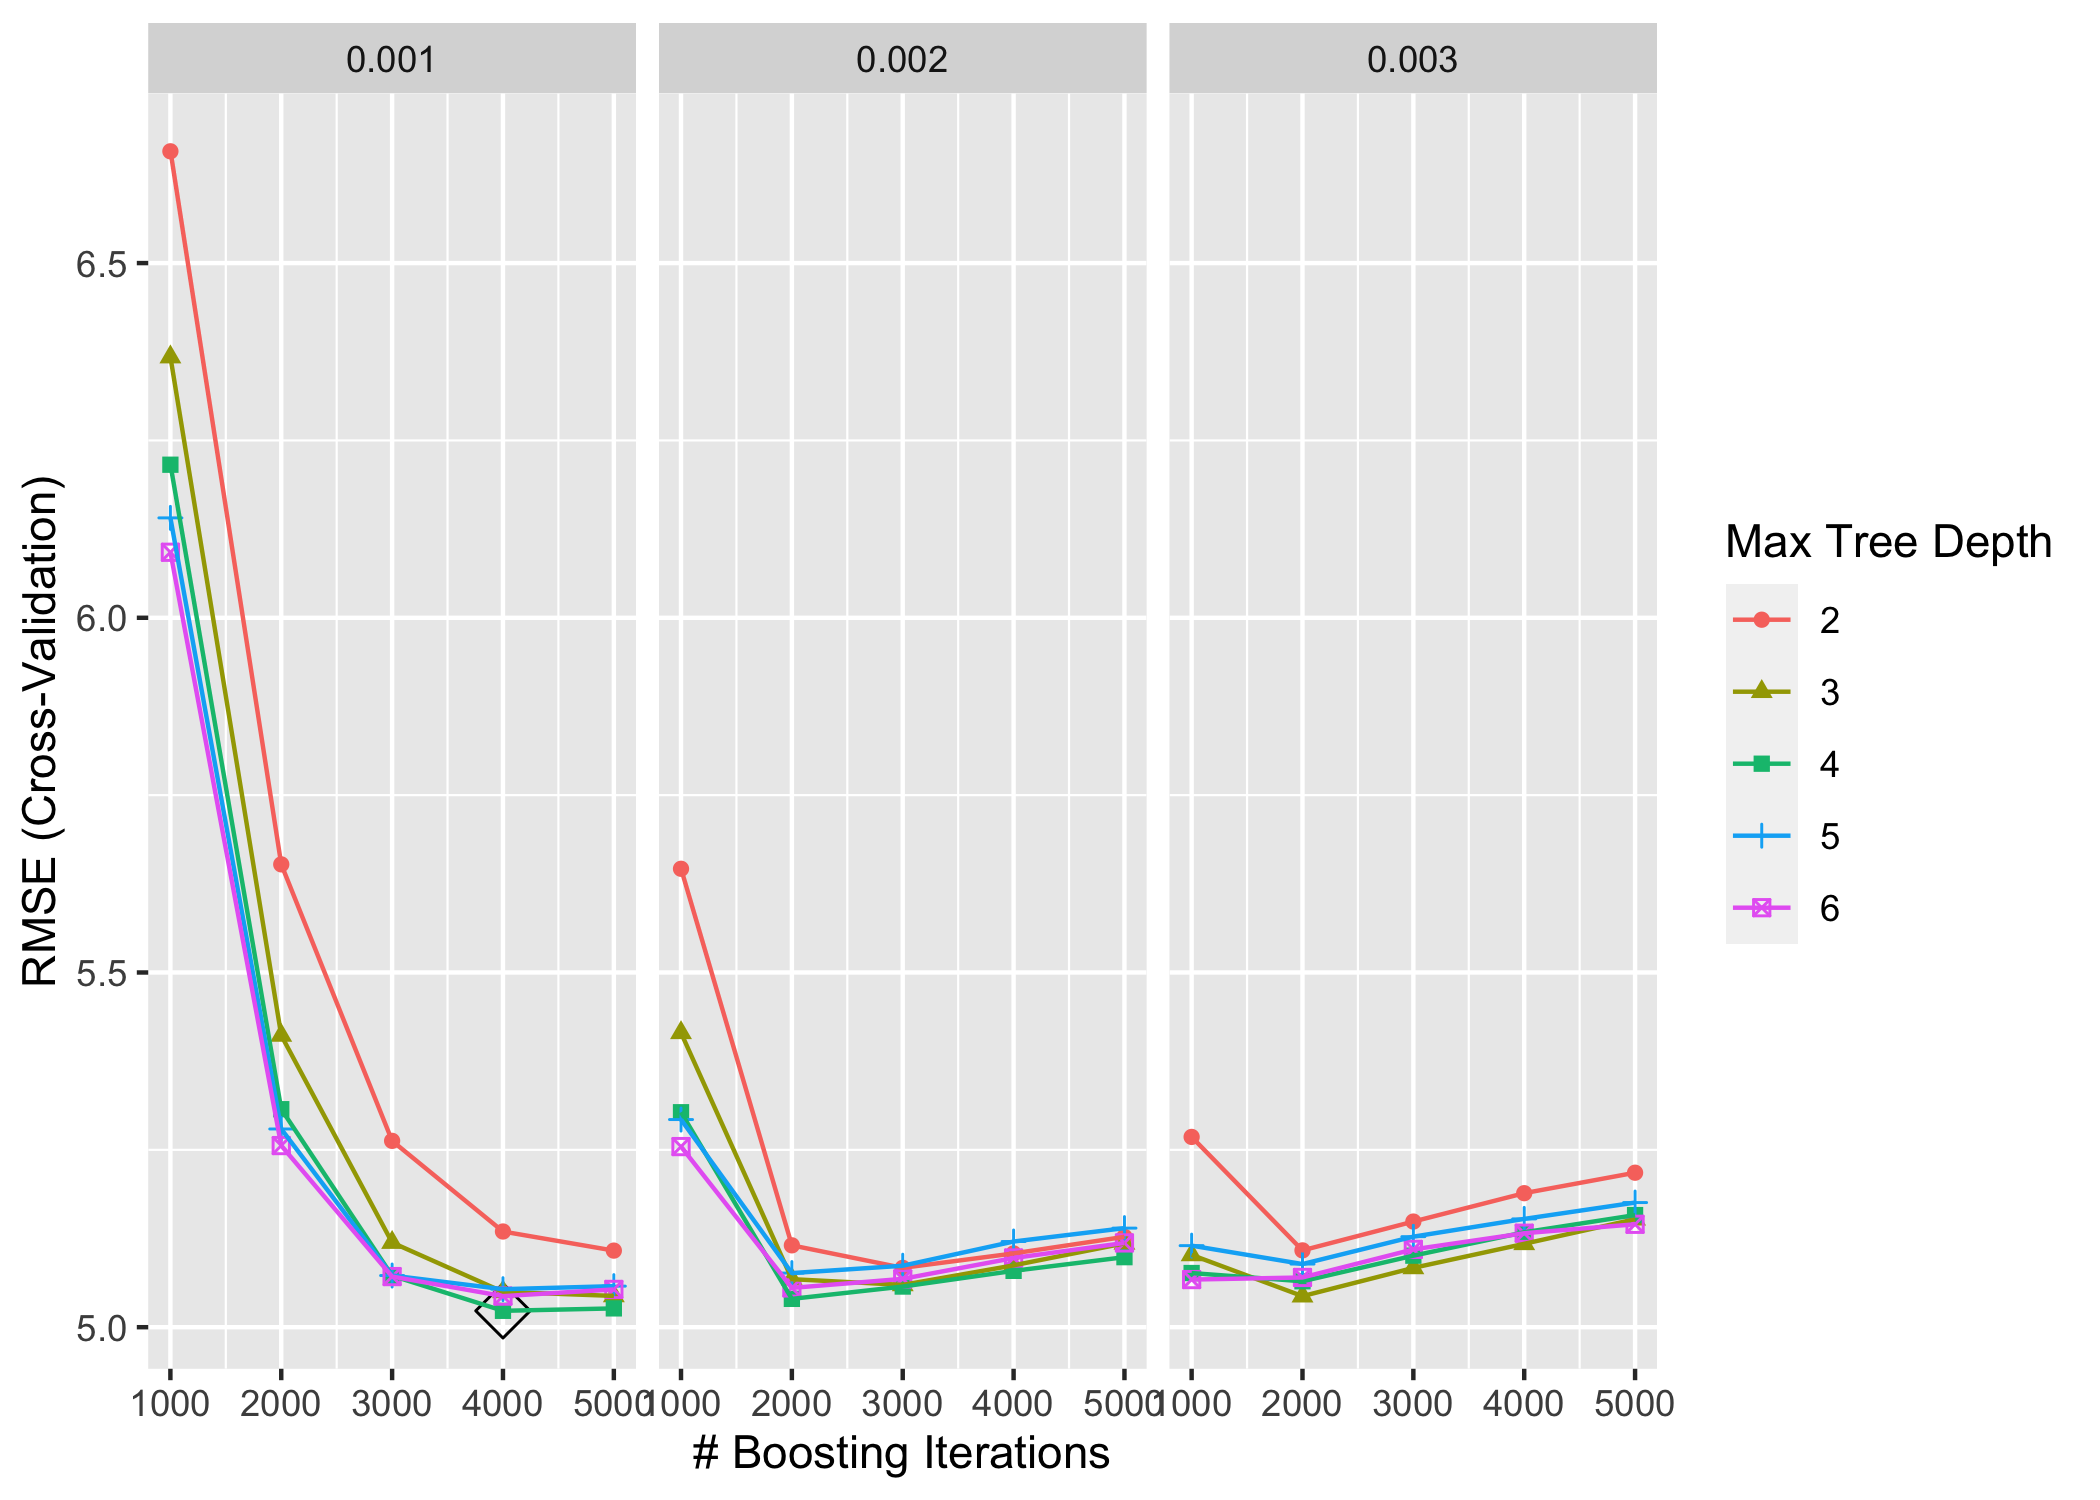
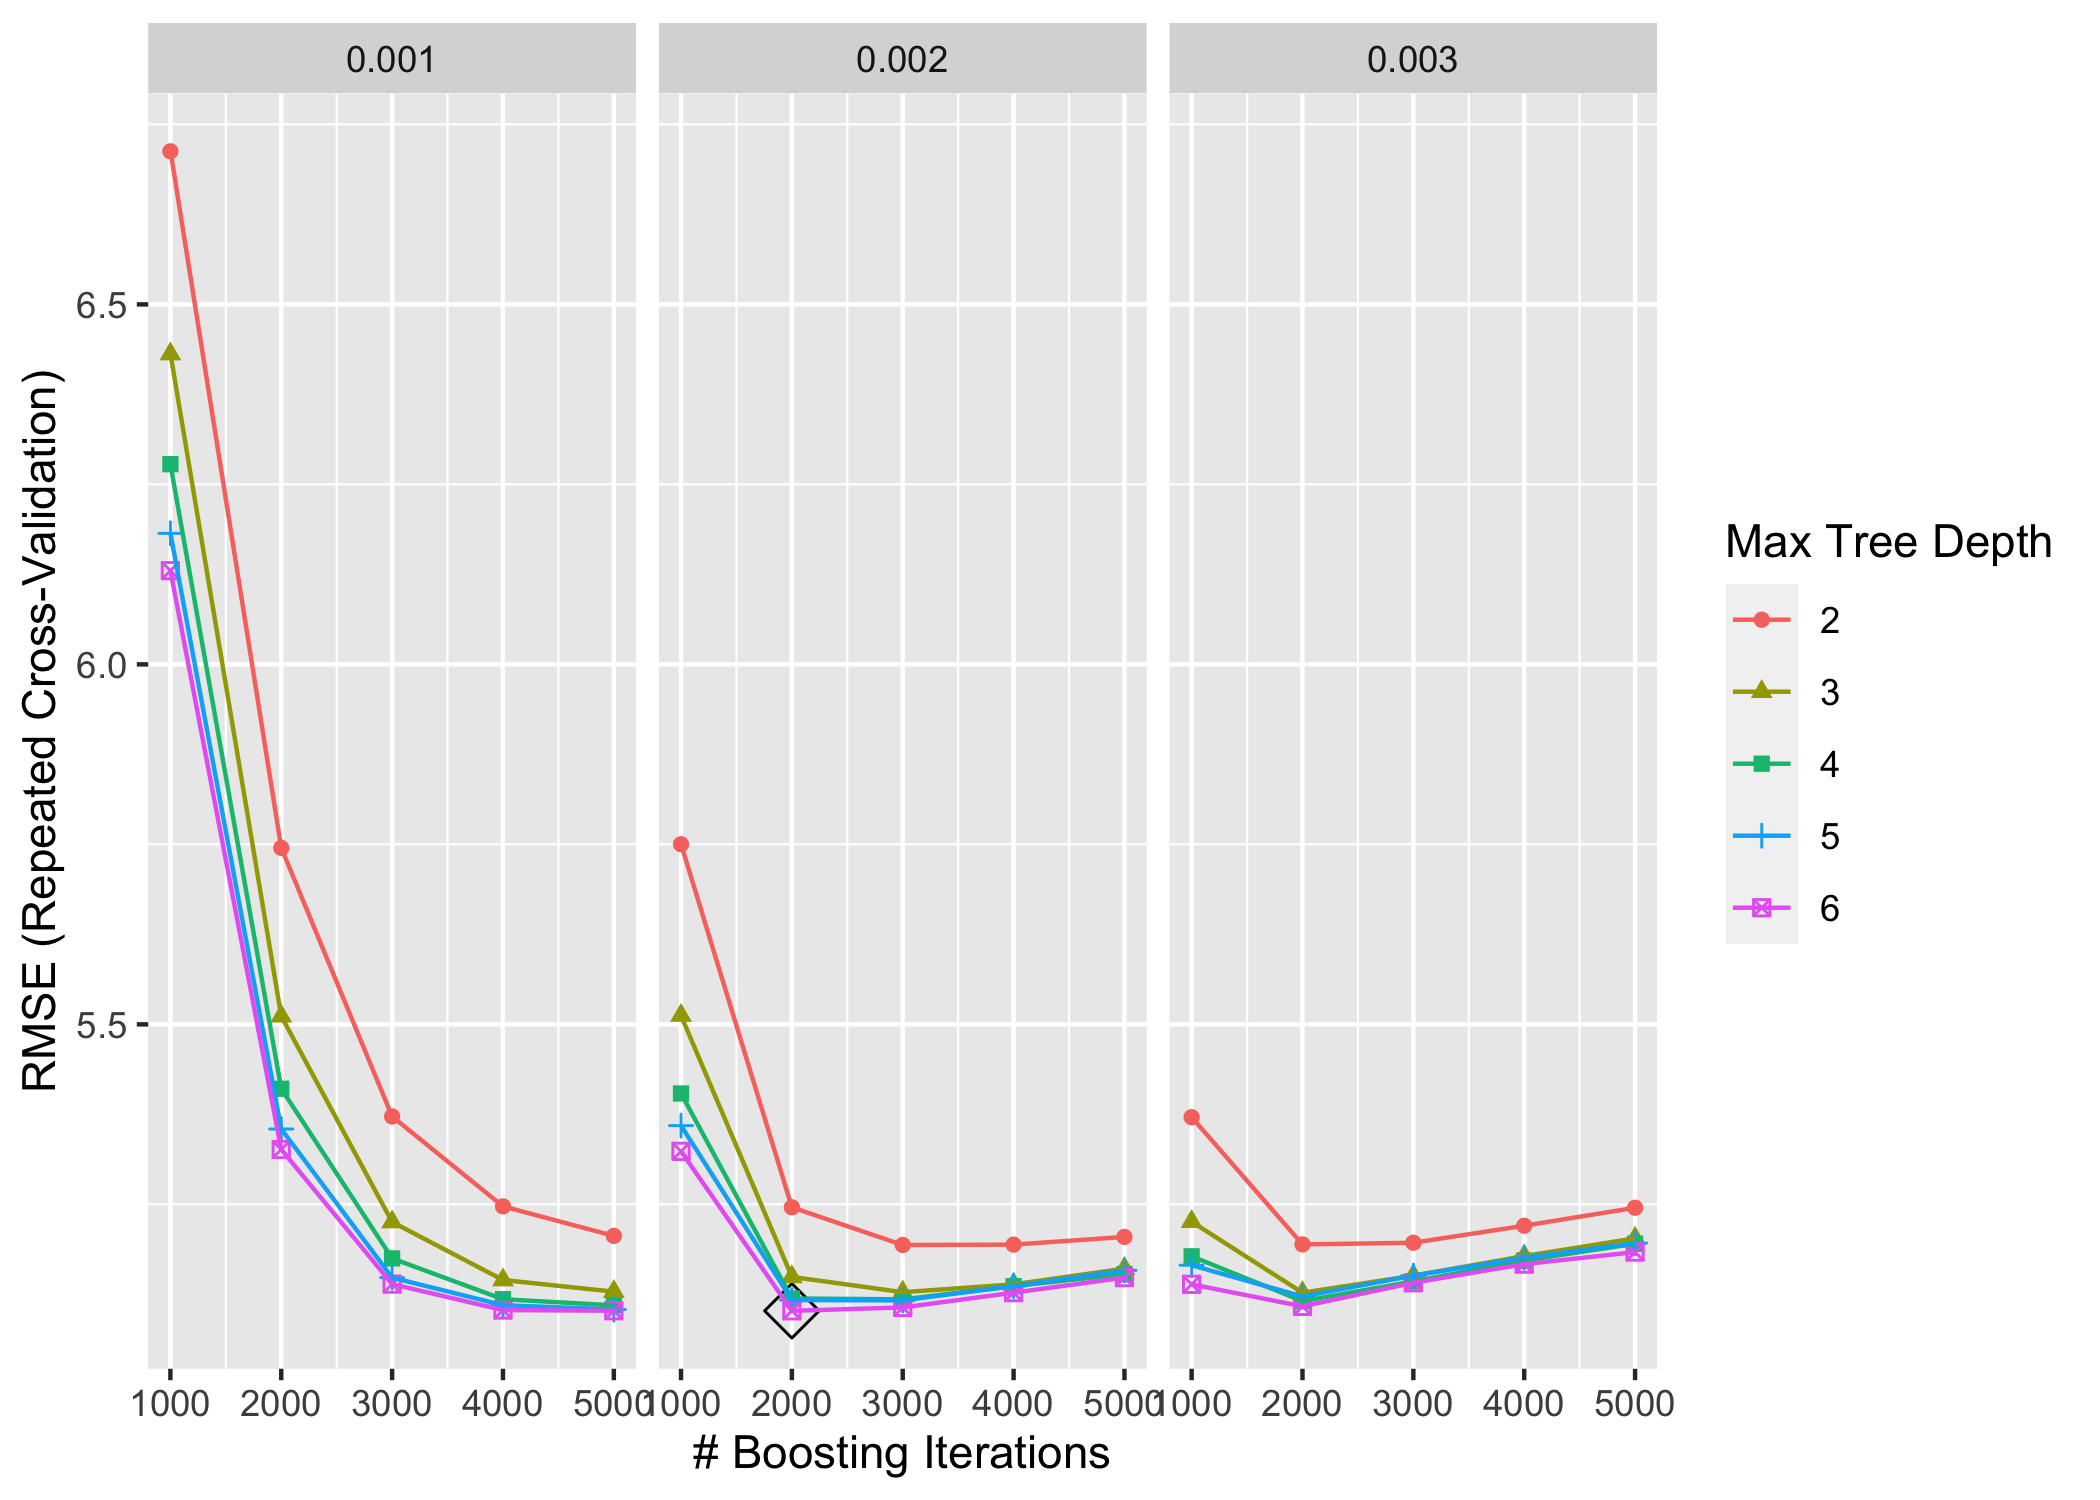
tree_final modified

diff --git a/tree_final.md b/tree_final.md
@@ -64,19 +64,19 @@ We add class labels for the newly generated clusters of `team` as
 ### Random forest
 
     ##     mtry splitrule min.node.size
-    ## 129   26  variance             3
+    ## 128   26  variance             2
 
 ![](tree_final_files/figure-gfm/unnamed-chunk-11-1.png)<!-- -->
 
 ### gbm
 
     ##    n.trees interaction.depth shrinkage n.minobsinnode
-    ## 14    4000                 4     0.001              1
+    ## 47    2000                 6     0.002              1
 
 ![](tree_final_files/figure-gfm/unnamed-chunk-12-1.png)<!-- -->
 
     ## A gradient boosted model with gaussian loss function.
-    ## 4000 iterations were performed.
+    ## 2000 iterations were performed.
     ## There were 27 predictors of which 27 had non-zero influence.
 
 ### Comparison of Tree-based models
@@ -84,8 +84,8 @@ We add class labels for the newly generated clusters of `team` as
 ![](tree_final_files/figure-gfm/unnamed-chunk-13-1.png)<!-- -->
 
     ##              model  cv_rmse
-    ## 1  rf_cluster_team 5.010028
-    ## 2 gbm_cluster_team 5.023088
+    ## 1  rf_cluster_team 5.137371
+    ## 2 gbm_cluster_team 5.102139
 
 ### Best tree model
 
@@ -97,7 +97,7 @@ Random forest with tuning parameters:
 
 Test error:
 
-    ## [1] 5.62092
+    ## [1] 5.559568
 
 Variable Importance:
 
@@ -109,10 +109,10 @@ Prediction on new observations:
 
 True salary (in million) for new observations:
 
-    ##                             salary
-    ## Aaron Gordon\\gordoaa01  16.409091
-    ## Aaron Wiggins\\wiggiaa01  1.000000
-    ## Al Horford\\horfoal01    27.000000
-    ## Alize Johnson\\johnsal02  0.804978
-    ## Anthony Davis\\davisan02 35.361360
-    ## Anthony Gill\\gillan01    1.517981
+    ##                  salary
+    ## Aaron Gordon  16.409091
+    ## Aaron Wiggins  1.000000
+    ## Al Horford    27.000000
+    ## Alize Johnson  0.804978
+    ## Anthony Davis 35.361360
+    ## Anthony Gill   1.517981
